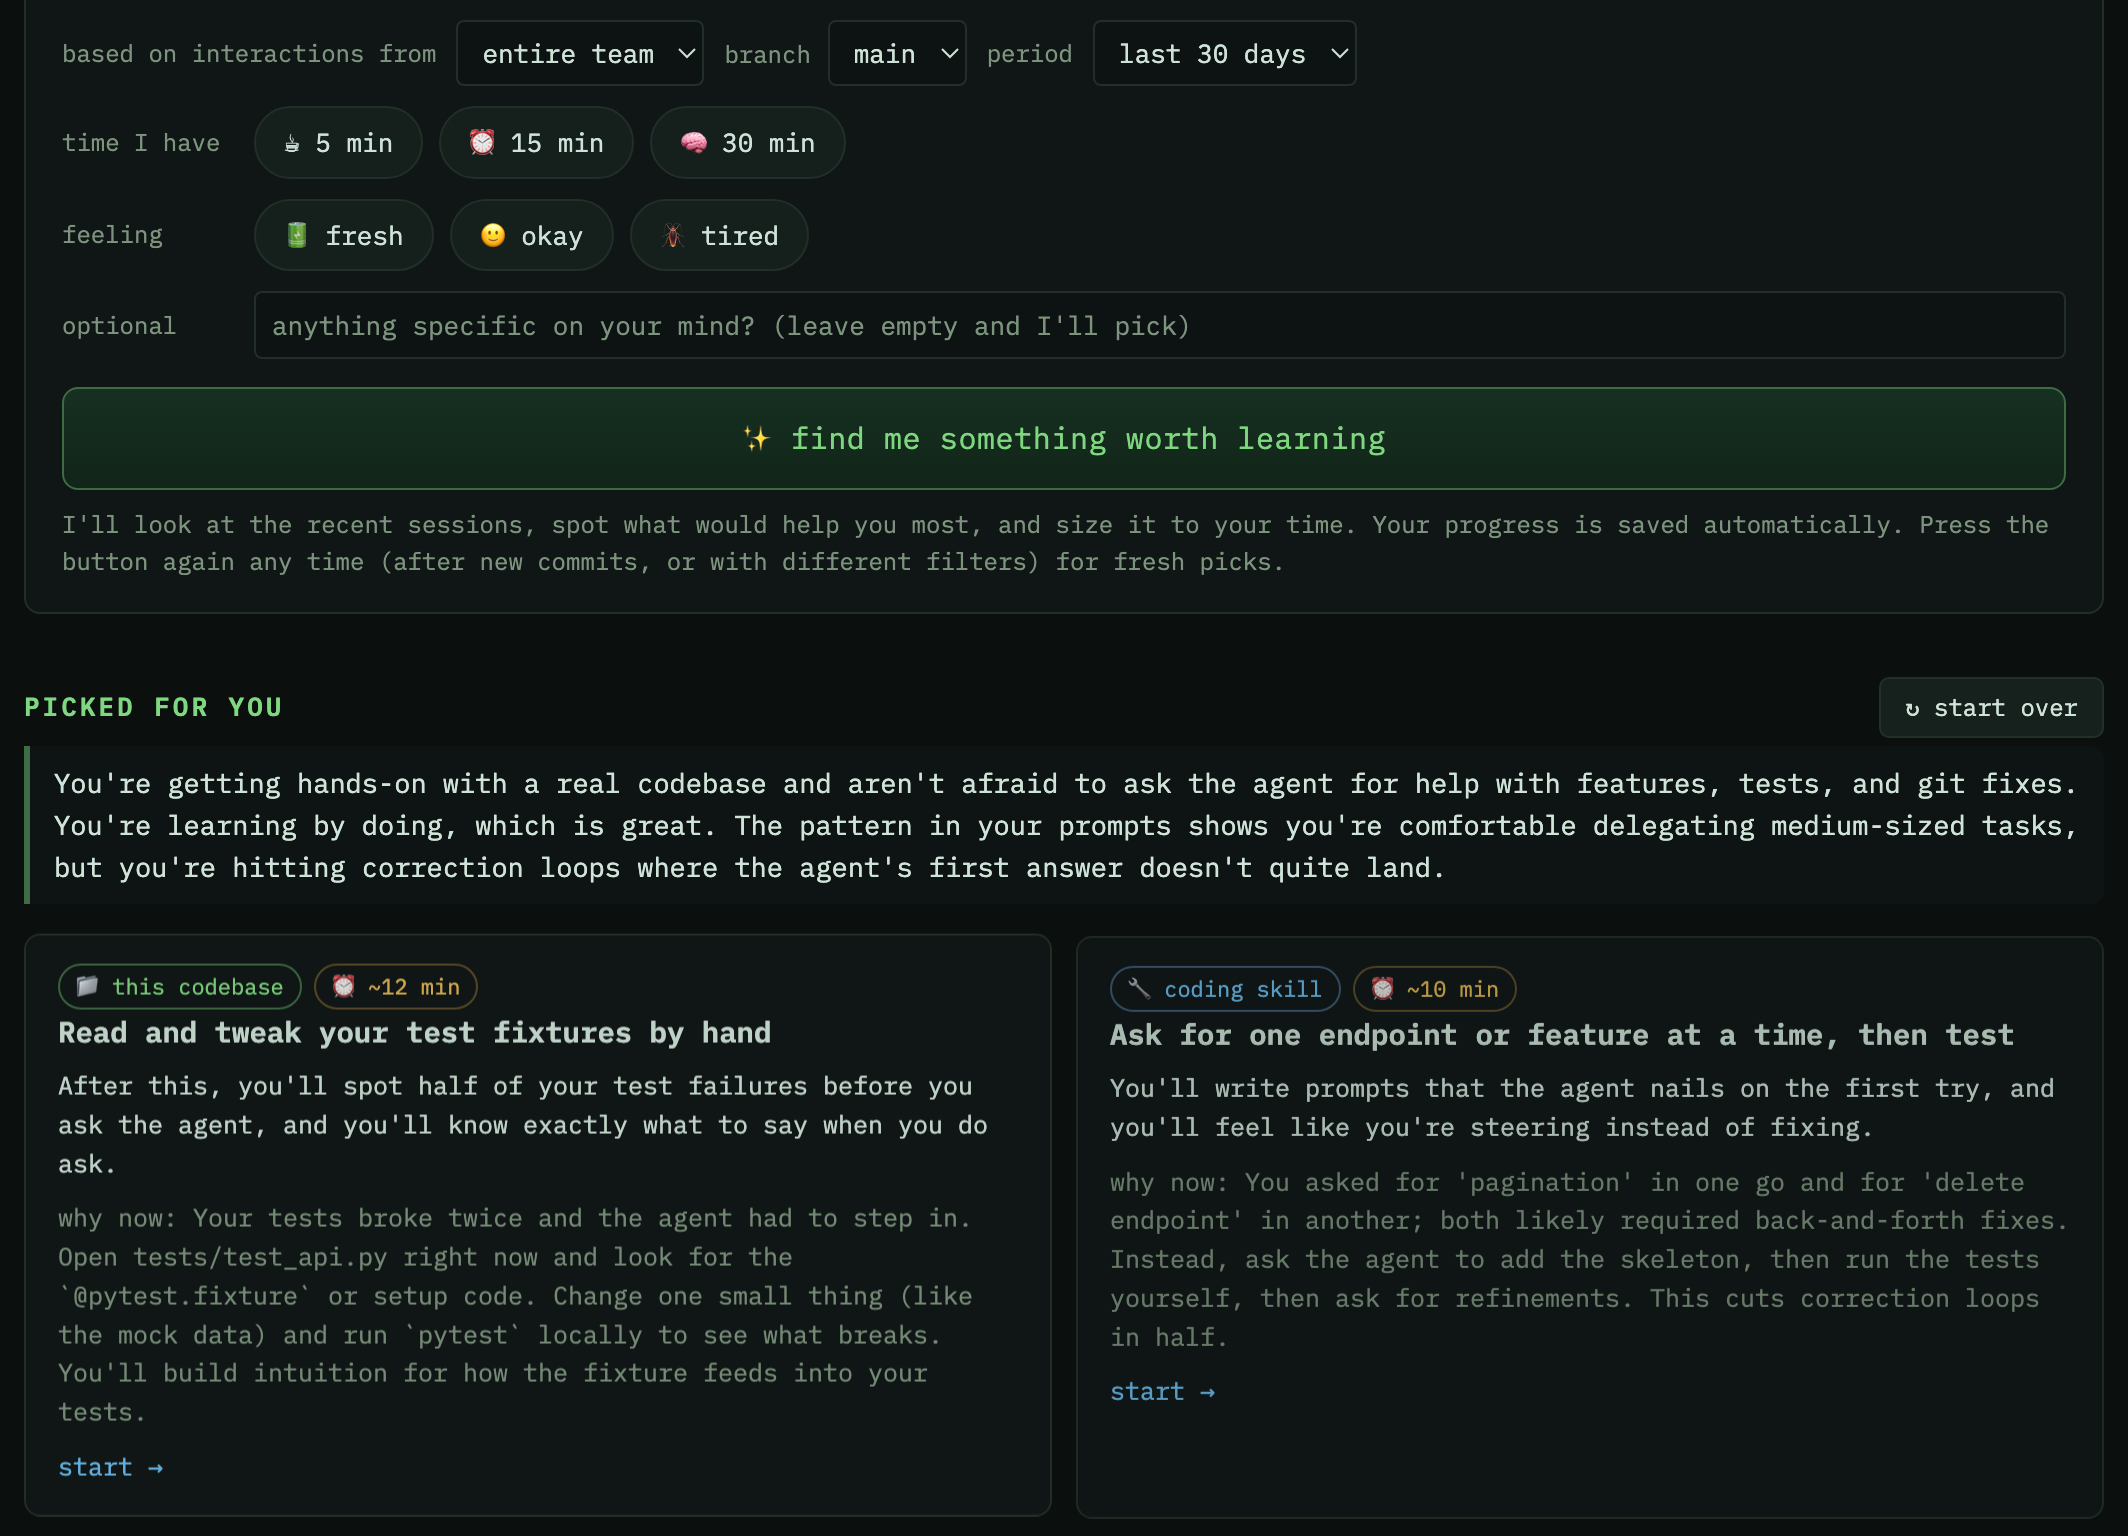
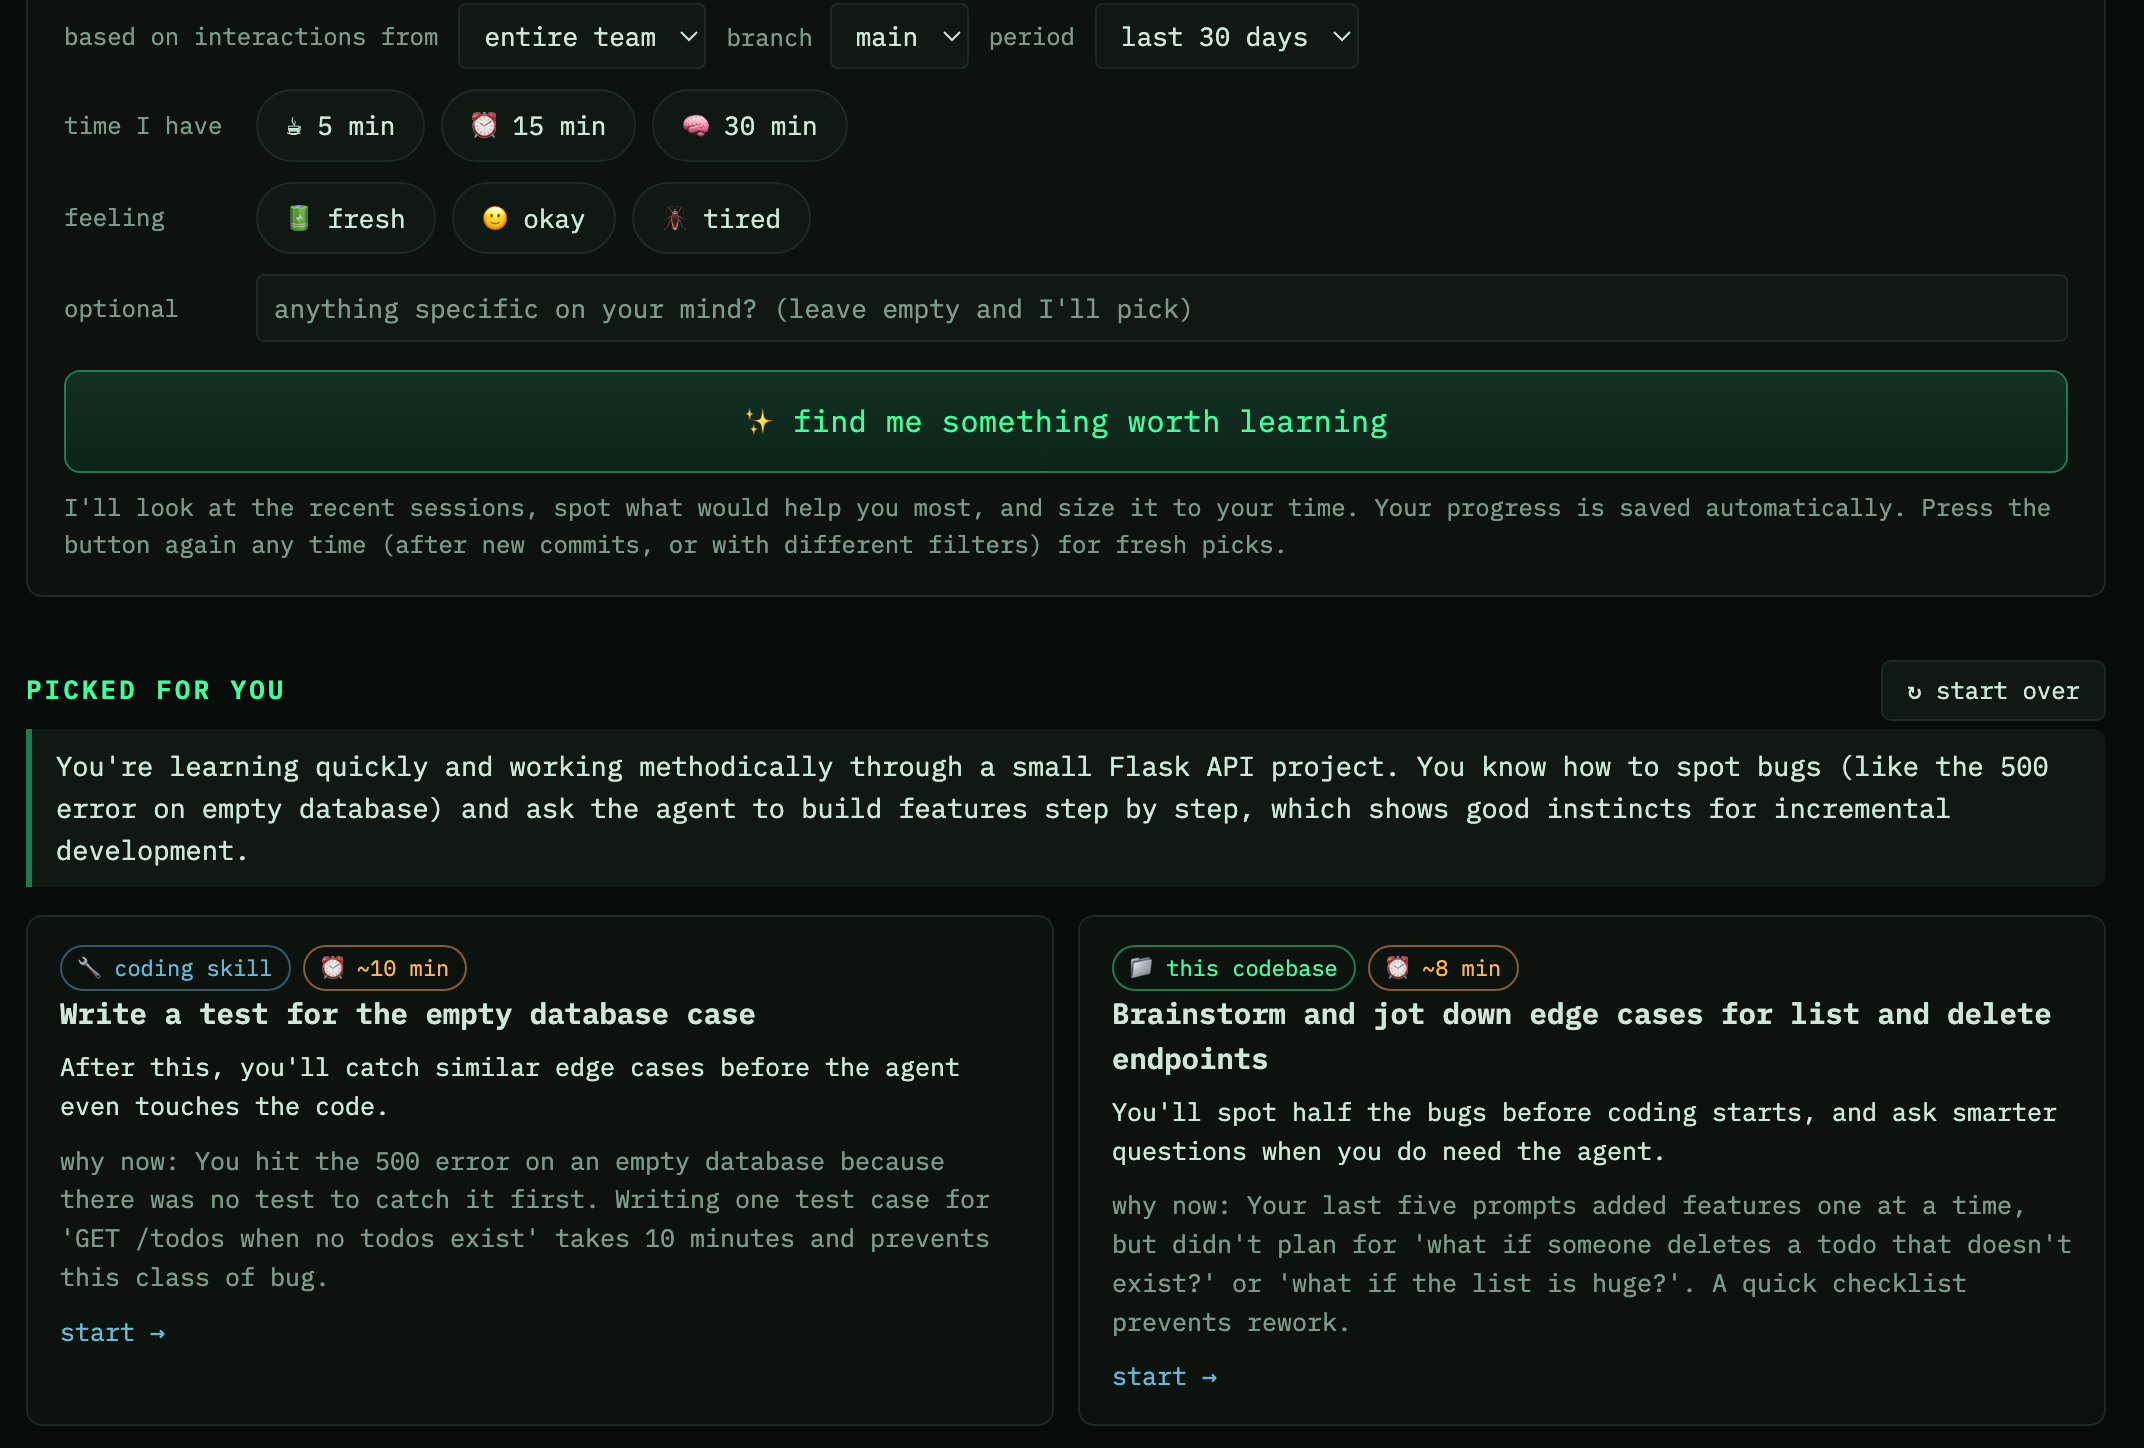
<aGiTrack> Add --backtrace daemon restart parity with -d mode
The `--backtrace` option now restarts the running daemon on the same
port instead of reporting "already running" and leaving stale code to
serve. When `agitrack --backtrace` is invoked with a daemon already
active, the old process is terminated with a socket-release wait period,
 the handshake is cleared, and a new child is spawned with `--dashboard-
port <previous port>` to preserve the URL. This mirrors the existing
`-d` restart behavior exactly.

The change solves the problem of picking up new aGiTrack builds after
updates and allows backtrace to re-scan for sessions that started after
the daemon launched. The `run_backtrace_daemon` function now accepts
`--dashboard-port` through the CLI (infrastructure already existed for
the dashboard daemon), enabling port pinning on restart. Cold starts
remain unchanged—no port is pinned—and if the old process lingers past
the 5-second wait, the child's port-fallback mechanism ensures a working
 URL rather than failure.

Two new mocked tests lock in the behavior:
`test_backtrace_start_restarts_a_running_daemon_on_the_same_port`
verifies termination and port reuse with the "Restarting the backtrace
daemon" message, and `test_backtrace_cold_start_does_not_request_a_port`
 confirms cold starts don't request a pinned port. A FLOW_MATRIX row and
 README update document the restart behavior. All checks pass: ruff,
format, and mypy are clean; 85 tests across backtrace, dashboard-daemon,
 and learn suites pass.

# Interaction Trace
[…]

diff --git a/tests/test_backtrace.py b/tests/test_backtrace.py
@@ -995,3 +995,61 @@ def test_backtrace_end_to_end_non_git_claude(monkeypatch, tmp_path):
     # path relativized to the directory, trace present, diff served
     assert view.diffs[stat.sha].startswith("diff --git a/hello.py b/hello.py")
     assert "Create hello.py" in stat.message and "## Agent" in stat.message
+
+
+def test_backtrace_start_restarts_a_running_daemon_on_the_same_port(monkeypatch, tmp_path, capsys):
+    # Re-running `agitrack --backtrace` must behave like `agitrack -d`: STOP the old daemon
+    # and start a fresh one reusing the previous port, not just print "already running".
+
+    monkeypatch.setattr(bt, "_running_handshake", lambda d: {"pid": 7, "url": "http://127.0.0.1:9998/", "port": 9998})
+    terminated: list[int] = []
+    import agitrack.metrics.daemon as daemon
+
+    monkeypatch.setattr(daemon, "_terminate_and_wait", lambda pid, *, timeout: terminated.append(pid))
+    cleared: list[Path] = []
+    monkeypatch.setattr(bt, "_clear_handshake", lambda d: cleared.append(d))
+    spawned_cmd: list[str] = []
+
+    class _Proc:
+        pid = 4242
+
+    def fake_popen(cmd, **kw):
+        spawned_cmd.extend(cmd)
+        return _Proc()
+
+    import subprocess
+
+    monkeypatch.setattr(subprocess, "Popen", fake_popen)
+    monkeypatch.setattr(bt, "_open_log", lambda d: subprocess.DEVNULL)
+    monkeypatch.setattr(
+        bt, "_wait_for_backtrace", lambda d, p, *, stall_seconds: {"pid": 4242, "url": "http://127.0.0.1:9998/"}
+    )
+    monkeypatch.setattr(bt, "_maybe_open", lambda url, record, open_browser: None)
+
+    assert bt.start_backtrace_daemon(tmp_path, owner_pid=999, open_browser=False) == 0
+    assert terminated == [7]  # the old daemon was stopped first
+    assert "--dashboard-port" in spawned_cmd and "9998" in spawned_cmd  # same port requested
+    assert cleared == [tmp_path]
+    out = capsys.readouterr().out
+    assert "Restarting the backtrace daemon" in out
+
+
+def test_backtrace_cold_start_does_not_request_a_port(monkeypatch, tmp_path):
+    # Without a running daemon there is no port to pin; the child binds its default.
+    monkeypatch.setattr(bt, "_running_handshake", lambda d: None)
+    spawned_cmd: list[str] = []
+
+    class _Proc:
+        pid = 4243
+
+    import subprocess
+
+    monkeypatch.setattr(subprocess, "Popen", lambda cmd, **kw: (spawned_cmd.extend(cmd), _Proc())[1])
+    monkeypatch.setattr(bt, "_open_log", lambda d: subprocess.DEVNULL)
+    monkeypatch.setattr(
+        bt, "_wait_for_backtrace", lambda d, p, *, stall_seconds: {"pid": 4243, "url": "http://127.0.0.1:8765/"}
+    )
+    monkeypatch.setattr(bt, "_maybe_open", lambda url, record, open_browser: None)
+
+    assert bt.start_backtrace_daemon(tmp_path, owner_pid=999, open_browser=False) == 0
+    assert "--dashboard-port" not in spawned_cmd

diff --git a/agitrack/metrics/learn.py b/agitrack/metrics/learn.py
@@ -466,7 +466,9 @@ def _run_agent(choice: LearningBackendChoice, system_prompt: str, user_prompt: s
         )
     if not text:
         raise LearnAgentError(f"The {choice.backend_name} backend returned no output.")
-    return text
+    # The persona forbids em-dashes (the project's writing rule for everything aGiTrack
+    # ships), but models slip; normalize so shipped content honours it regardless.
+    return text.replace(" — ", ", ").replace("—", ", ")
 
 
 def _run_agent_json(choice: LearningBackendChoice, system_prompt: str, user_prompt: str, timeout: int) -> dict:
@@ -1456,9 +1458,9 @@ _LEARN_TEMPLATE = r"""<!DOCTYPE html>
 <link rel="preconnect" href="https://fonts.gstatic.com" crossorigin>
 <link href="https://fonts.googleapis.com/css2?family=VT323&family=IBM+Plex+Mono:ital,wght@0,400;0,500;0,600;1,400&display=swap" rel="stylesheet">
 <style>
-:root{--ink:#0b0f0e;--panel:#111716;--panel2:#0e1413;--line:#233029;--fg:#cfe3d8;--fg-dim:#7d947f;
-  --phosphor:#7fd77f;--phosphor-dim:#3f6b45;--accent:#6bbcee;--warn:#e0b653;--bad:#e07a6a;
-  --chipbg:#16201d;--amber:#ffb454;
+:root{--ink:#070b09;--panel:#0c120e;--panel2:#101813;--line:#1d2a21;--fg:#cfe7d8;--fg-dim:#7e998a;
+  --phosphor:#3dffa0;--phosphor-dim:#1f7a52;--accent:#67b8d6;--warn:#ffb454;--bad:#ff6b6b;
+  --chipbg:#101813;--amber:#ffb454;--amber-dim:#8a5e2a;
   --mono:"IBM Plex Mono",ui-monospace,Menlo,Consolas,monospace;--display:"VT323",var(--mono)}
 *{box-sizing:border-box}
 html,body{margin:0;padding:0;background:var(--ink);color:var(--fg);
@@ -1468,9 +1470,9 @@ a{color:var(--accent);text-decoration:none} a:hover{text-decoration:underline}
 /* A slow ambient glow drifting behind everything: calm, not busy. */
 .ambient{position:fixed;inset:0;z-index:-1;pointer-events:none;opacity:.5;
   background:
-    radial-gradient(600px 420px at 18% 8%, rgba(127,215,127,.09), transparent 60%),
-    radial-gradient(700px 480px at 85% 30%, rgba(107,188,238,.07), transparent 60%),
-    radial-gradient(520px 420px at 45% 95%, rgba(224,182,83,.05), transparent 60%);
+    radial-gradient(600px 420px at 18% 8%, rgba(61,255,160,.09), transparent 60%),
+    radial-gradient(700px 480px at 85% 30%, rgba(103,184,214,.07), transparent 60%),
+    radial-gradient(520px 420px at 45% 95%, rgba(255,180,84,.05), transparent 60%);
   animation:drift 36s ease-in-out infinite alternate}
 @keyframes drift{from{transform:translate3d(0,0,0) scale(1)}to{transform:translate3d(-30px,20px,0) scale(1.06)}}
 
@@ -1478,7 +1480,7 @@ a{color:var(--accent);text-decoration:none} a:hover{text-decoration:underline}
 header{display:flex;align-items:baseline;justify-content:space-between;gap:14px;flex-wrap:wrap;
   border-bottom:1px dashed var(--line);padding-bottom:14px;margin-bottom:18px}
 .brand{font-family:var(--display);font-weight:400;font-size:38px;line-height:.9;color:var(--phosphor);
-  letter-spacing:1.5px;text-shadow:0 0 12px rgba(127,215,127,.5),0 0 44px rgba(127,215,127,.2)}
+  letter-spacing:1.5px;text-shadow:0 0 12px rgba(61,255,160,.5),0 0 44px rgba(61,255,160,.2)}
 .brand .a{color:var(--amber);text-shadow:0 0 12px rgba(255,180,84,.5),0 0 44px rgba(255,180,84,.2)}
 .brand .sub{font-family:var(--display);font-size:.5em;color:var(--fg-dim);letter-spacing:3px;text-shadow:none}
 .meta{color:var(--fg-dim);font-size:12.5px} .meta b{color:var(--fg)}
@@ -1508,16 +1510,16 @@ h2.section{font-size:13px;letter-spacing:1.5px;text-transform:uppercase;color:va
 .chip{background:var(--chipbg);border:1px solid var(--line);color:var(--fg);padding:7px 14px;
   cursor:pointer;font:inherit;font-size:13px;border-radius:999px;transition:transform .12s,border-color .12s}
 .chip:hover{border-color:var(--phosphor-dim);transform:translateY(-1px)}
-.chip.sel{border-color:var(--phosphor);color:var(--phosphor);background:#14241a}
+.chip.sel{border-color:var(--phosphor);color:var(--phosphor);background:#0f2a1c}
 select,input[type=text],textarea{background:var(--panel2);border:1px solid var(--line);color:var(--fg);
   font:inherit;font-size:13px;padding:6px 8px;border-radius:4px}
 input[type=text]{flex:1;min-width:200px}
 input[type=text]::placeholder,textarea::placeholder{color:var(--fg-dim)}
 textarea{width:100%;min-height:74px;resize:vertical}
 .gobtn{display:block;width:100%;margin-top:14px;padding:13px;font:inherit;font-size:15px;cursor:pointer;
-  background:linear-gradient(180deg,#173123,#122619);border:1px solid var(--phosphor-dim);color:var(--phosphor);
+  background:linear-gradient(180deg,#123023,#0d2418);border:1px solid var(--phosphor-dim);color:var(--phosphor);
   border-radius:8px;letter-spacing:.3px;transition:transform .12s,border-color .12s,box-shadow .12s}
-.gobtn:hover{border-color:var(--phosphor);transform:translateY(-1px);box-shadow:0 4px 18px rgba(127,215,127,.12)}
+.gobtn:hover{border-color:var(--phosphor);transform:translateY(-1px);box-shadow:0 4px 18px rgba(61,255,160,.12)}
 .gobtn:disabled{opacity:.55;cursor:default;transform:none;box-shadow:none}
 .hint{color:var(--fg-dim);font-size:12px;margin-top:8px}
 .thinking{display:flex;align-items:center;gap:10px;color:var(--fg-dim);font-size:13px;padding:14px 4px}
@@ -1525,7 +1527,7 @@ textarea{width:100%;min-height:74px;resize:vertical}
 /* The full-screen processing overlay: while the agent writes suggestions or a lesson,
    the whole page dims and this card is unmissable, whatever was scrolled into view. */
 .overlay{position:fixed;inset:0;z-index:60;display:flex;align-items:center;justify-content:center;
-  background:rgba(4,7,5,.74);backdrop-filter:blur(3px);animation:fadein .25s ease both}
+  background:rgba(3,6,4,.74);backdrop-filter:blur(3px);animation:fadein .25s ease both}
 @keyframes fadein{from{opacity:0}to{opacity:1}}
 .ov-card{background:var(--panel);border:1px solid var(--phosphor-dim);border-radius:12px;
   padding:32px 40px;max-width:460px;margin:0 20px;text-align:center;
@@ -1549,15 +1551,15 @@ textarea{width:100%;min-height:74px;resize:vertical}
 .card:hover{border-color:var(--phosphor);transform:translateY(-2px);box-shadow:0 6px 22px rgba(0,0,0,.35)}
 .card.busy{border-color:var(--phosphor);animation:busypulse 1.2s ease-in-out infinite}
 .card.busy .start{color:var(--phosphor)}
-@keyframes busypulse{50%{box-shadow:0 0 0 4px rgba(127,215,127,.18)}}
+@keyframes busypulse{50%{box-shadow:0 0 0 4px rgba(61,255,160,.18)}}
 .card h3{margin:0 0 6px;font-size:14.5px;color:var(--fg);font-weight:600}
 .card .why{color:var(--fg-dim);font-size:12.5px;margin:6px 0}
 .card .teaser{color:var(--fg);font-size:12.5px;margin:6px 0 8px}
 .badges{display:flex;gap:6px;flex-wrap:wrap}
 .badge{font-size:11px;padding:2px 8px;border-radius:999px;border:1px solid var(--line);color:var(--fg-dim)}
-.badge.kind-coding{border-color:#3d5a75;color:var(--accent)}
+.badge.kind-coding{border-color:#35586b;color:var(--accent)}
 .badge.kind-codebase{border-color:var(--phosphor-dim);color:var(--phosphor)}
-.badge.min{color:var(--warn);border-color:#5c4d28}
+.badge.min{color:var(--warn);border-color:var(--amber-dim)}
 .badge.done{color:var(--phosphor);border-color:var(--phosphor-dim)}
 .card .start{margin-top:8px;font-size:12.5px;color:var(--accent)}
 .lesson h1{font-size:19px;margin:4px 0 2px;color:var(--fg)}
@@ -1610,7 +1612,7 @@ textarea{width:100%;min-height:74px;resize:vertical}
 .chat{margin-top:40px;border-top:1px dashed var(--line);padding-top:26px}
 .bubble{max-width:85%;padding:8px 12px;margin:8px 0;font-size:13px;border:1px solid var(--line);border-radius:10px;
   animation:rise .35s ease both}
-.bubble.user{margin-left:auto;background:#14222b;border-color:#2a4356;border-bottom-right-radius:3px}
+.bubble.user{margin-left:auto;background:#0f1d26;border-color:#28455a;border-bottom-right-radius:3px}
 .bubble.mentor{background:var(--panel2);border-bottom-left-radius:3px}
 .chatrow{display:flex;gap:8px;margin-top:10px}
 .chatrow input{flex:1}
@@ -1661,7 +1663,7 @@ textarea{width:100%;min-height:74px;resize:vertical}
 footer{margin-top:46px;padding-top:18px;border-top:1px dashed var(--line);color:var(--fg-dim);font-size:12px}
 /* The backtrace notice: a frozen top strip, amber like the dashboard's, always visible. */
 .btbanner{position:sticky;top:0;z-index:55;margin:0;padding:10px 18px;background:var(--panel);
-  border-bottom:2px solid #5c4d28;color:var(--warn);font-size:12.5px;line-height:1.5;
+  border-bottom:2px solid var(--amber-dim);color:var(--warn);font-size:12.5px;line-height:1.5;
   text-align:center;box-shadow:0 4px 16px rgba(0,0,0,.55)}
 .btbanner code{color:var(--fg);background:var(--panel2);padding:0 5px;border-radius:3px}
 footer code{color:var(--fg)}

diff --git a/agitrack/metrics/backtrace.py b/agitrack/metrics/backtrace.py
@@ -1022,9 +1022,13 @@ def _running_handshake(directory: Path) -> dict | None:
 
 
 def start_backtrace_daemon(directory: Path, *, owner_pid: int, open_browser: bool = True, timeout: float = 90.0) -> int:
-    """`agitrack --backtrace` (html): start — or reuse — the background backtrace daemon for
-    ``directory``, then return to the shell. The daemon dies when the launching terminal
-    closes (owner-pid watchdog) or via `agitrack --backtrace stop`.
+    """`agitrack --backtrace` (html): start the background backtrace daemon for ``directory``,
+    then return to the shell. The daemon dies when the launching terminal closes (owner-pid
+    watchdog) or via `agitrack --backtrace stop`.
+
+    Like ``agitrack -d``, re-running while a daemon is already up RESTARTS it — the old one is
+    stopped and a fresh one started on the same port, so the URL is unchanged and a re-run
+    (e.g. after an aGiTrack update, or to pick up new sessions) always serves current code.
 
     ``timeout`` is the STALL tolerance, not a total deadline: the first build scans and exports
     every local session (OpenCode shells out per session) and can take minutes, so a progress bar
@@ -1034,14 +1038,21 @@ def start_backtrace_daemon(directory: Path, *, owner_pid: int, open_browser: boo
     import sys
     import os
 
+    from agitrack.metrics.daemon import _terminate_and_wait
     from agitrack.proc import detach_kwargs
 
     running = _running_handshake(directory)
+    reuse_port: int | None = None
     if running is not None:
-        url = str(running.get("url", ""))
-        print(f"aGiTrack backtrace already running at {url} (pid {running.get('pid')}).")
-        _maybe_open(url, running, open_browser)
-        return 0
+        old_pid = int(running["pid"])
+        raw_port = running.get("port")
+        reuse_port = int(raw_port) if isinstance(raw_port, int) else None
+        # Stop the old daemon and wait for the socket to be released so the replacement can
+        # bind the SAME port. If it lingers, the child's port fallback still yields a working
+        # (just different) URL rather than a failure.
+        _terminate_and_wait(old_pid, timeout=5.0)
+        _clear_handshake(directory)
+        print(f"Restarting the backtrace daemon (was pid {old_pid}).")
 
     cmd = [
         sys.executable,
@@ -1053,6 +1064,8 @@ def start_backtrace_daemon(directory: Path, *, owner_pid: int, open_browser: boo
         "--dashboard-owner-pid",
         str(owner_pid),
     ]
+    if reuse_port is not None:
+        cmd += ["--dashboard-port", str(reuse_port)]
     # The child must load the INSTALLED aGiTrack, never a stray ``agitrack/`` package in the
     # target directory: the backtraced directory can itself be the aGiTrack source checkout, and
     # ``python -m agitrack`` would otherwise import that (older) copy from cwd. So run the child

diff --git a/agitrack/cli.py b/agitrack/cli.py
@@ -512,7 +512,12 @@ def main(argv: list[str] | None = None) -> int:
         # dashboard out-of-process and shuts down when its owner pid dies.
         from agitrack.metrics.backtrace import run_backtrace_daemon
 
-        return run_backtrace_daemon(Path(args.repo).expanduser().resolve(), owner_pid=args.dashboard_owner_pid)
+        return run_backtrace_daemon(
+            Path(args.repo).expanduser().resolve(),
+            owner_pid=args.dashboard_owner_pid,
+            # A restart passes the previous port so the URL survives (see start_backtrace_daemon).
+            port=args.dashboard_port if args.dashboard_port is not None else 8765,
+        )
 
     if args.backtrace:
         # Read-only reconstruction from local transcripts — no git, no privacy prompt, no repo

diff --git a/tests/test_learn.py b/tests/test_learn.py
@@ -462,9 +462,10 @@ def test_lesson_chat_appends_bounded_history(tmp_path, monkeypatch, fixed_identi
     _suggested(repo, tmp_path, monkeypatch)
     _fake_agent(monkeypatch, _LESSON_JSON)
     lesson = learn.make_lesson(repo.repo, repo, [_stat()], [], [], suggestion_id="rebase-basics")["lesson"]
-    fake = _fake_agent(monkeypatch, "Great question! Squash melds commits.")
+    fake = _fake_agent(monkeypatch, "Great question \u2014 squash melds commits.")
     result = learn.lesson_chat(repo.repo, repo, lesson_id=lesson["id"], message="what does squash do?")
-    assert "Squash melds" in result["reply"]
+    # Model output is normalized to the project's no-em-dash rule before it is stored/shown.
+    assert result["reply"] == "Great question, squash melds commits."
     assert "what does squash do?" in fake.calls[0]["prompt"]
     stored = json.loads((tmp_path / ".agitrack" / "learning.json").read_text())
     chat = stored["profiles"]["alice"]["lessons"][0]["chat"]

diff --git a/README.md b/README.md
@@ -308,7 +308,7 @@ agitrack --backtrace stop            # stop the background backtrace daemon
 agitrack --backtrace commit --backtrace-branch tracked-history   # write the reconstruction into real git commits
 ```
 
-- **`--backtrace` (view).** Reads every local session that ran in this directory (or a subdirectory), recovers each turn's file edits from the tool calls, and shows the **same dashboard** — tokens, models, lines changed, the full file browser, and the complete user↔agent trace behind each change — clearly labeled with a frozen banner as a **historical reconstruction, not live repo status**. It runs as a lifecycle-bound background daemon just like `-d` (stops when the terminal closes or via `--backtrace stop`).
+- **`--backtrace` (view).** Reads every local session that ran in this directory (or a subdirectory), recovers each turn's file edits from the tool calls, and shows the **same dashboard** — tokens, models, lines changed, the full file browser, and the complete user↔agent trace behind each change — clearly labeled with a frozen banner as a **historical reconstruction, not live repo status**. It runs as a lifecycle-bound background daemon just like `-d` (stops when the terminal closes or via `--backtrace stop`), and like `-d`, re-running `--backtrace` **restarts** a daemon that is already up on the same port, so the URL is unchanged and new sessions are picked up.
 
 - **`--backtrace commit` (bake it in).** Replays your existing git history onto a **new branch** (`--backtrace-branch <name>`), and for each commit whose files an agent turn produced, appends the reconstructed `# Interaction Trace` and `# aGiTrack Metadata` (backend, model, tokens, timings) — so a project built without aGiTrack ends up with a fully tracked history the dashboard understands. Commits with no AI correspondence are kept **verbatim**; trees, authors and dates are preserved exactly.
   - It **rewrites history** (every commit gets a new hash), so it only runs on a new branch, requires a **clean working tree** (commit or `.gitignore` your pending files first), and never touches your current branch. Because the new branch is a rewrite it is **not a fast-forward** of the old one — aGiTrack prints the exact steps to review it and, if you choose, force-replace the old branch. A progress bar shows during the replay.

diff --git a/tests/FLOW_MATRIX.md b/tests/FLOW_MATRIX.md
@@ -220,6 +220,7 @@ directory that is not a git repo still gets the full page, with progress sync re
 | Page + routes served over HTTP (GET /learn, /learn/state; POSTs return in-page errors, never 500) | `test_learn_html_contains_the_page`, `test_dashboard_serves_learn_routes` | real-git |
 | Backtrace mode: learn works without a git repo (repo=None; sync reported unavailable), shared POST dispatcher routes and 404s | `test_learn_works_without_a_git_repo`, `test_handle_learn_post_dispatches_and_404s` | real-git + plain-dir |
 | Backtrace server end-to-end: /data efficiency insights over reconstructed turns; /learn carries the frozen "based on backtracing" warning strip; state (no branches, sync unavailable); suggestions personalized from the reconstruction | `test_backtrace_server_serves_learn_with_banner_and_insights` | plain-dir + HTTP |
+| Re-running `--backtrace` restarts a running daemon on the same port (like `-d`); a cold start pins no port | `test_backtrace_start_restarts_a_running_daemon_on_the_same_port`, `test_backtrace_cold_start_does_not_request_a_port` | mock |
 
 ## 13. Self-update
 | Sequence | Test(s) | Kind |